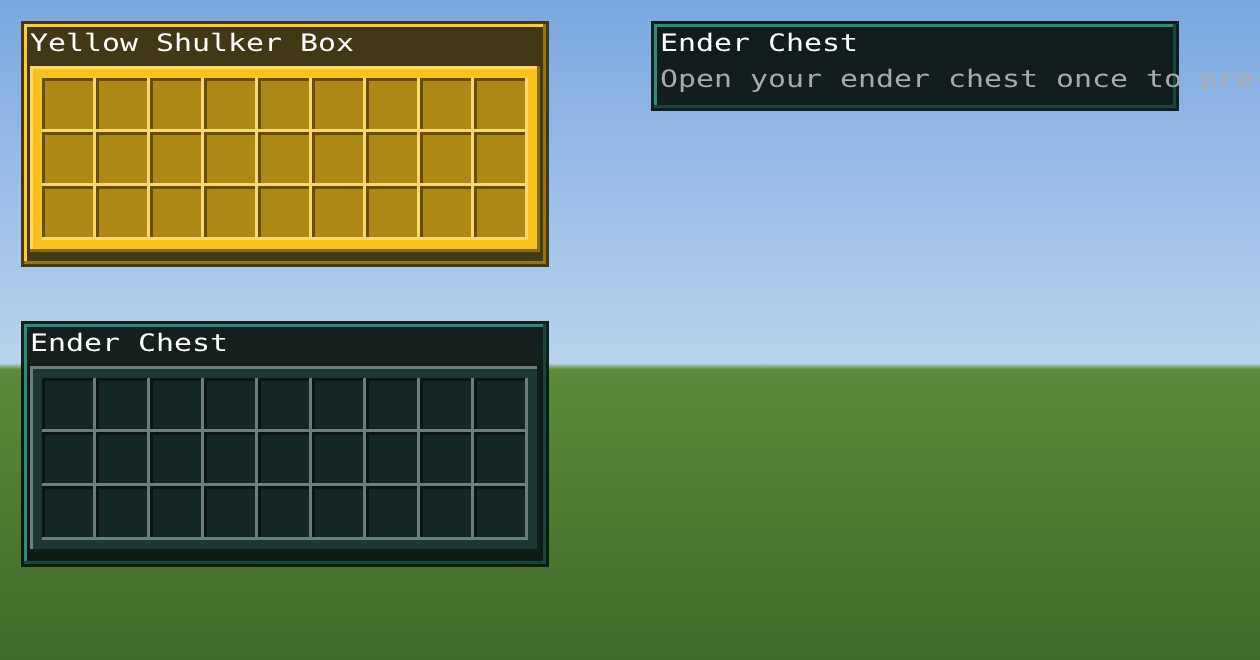
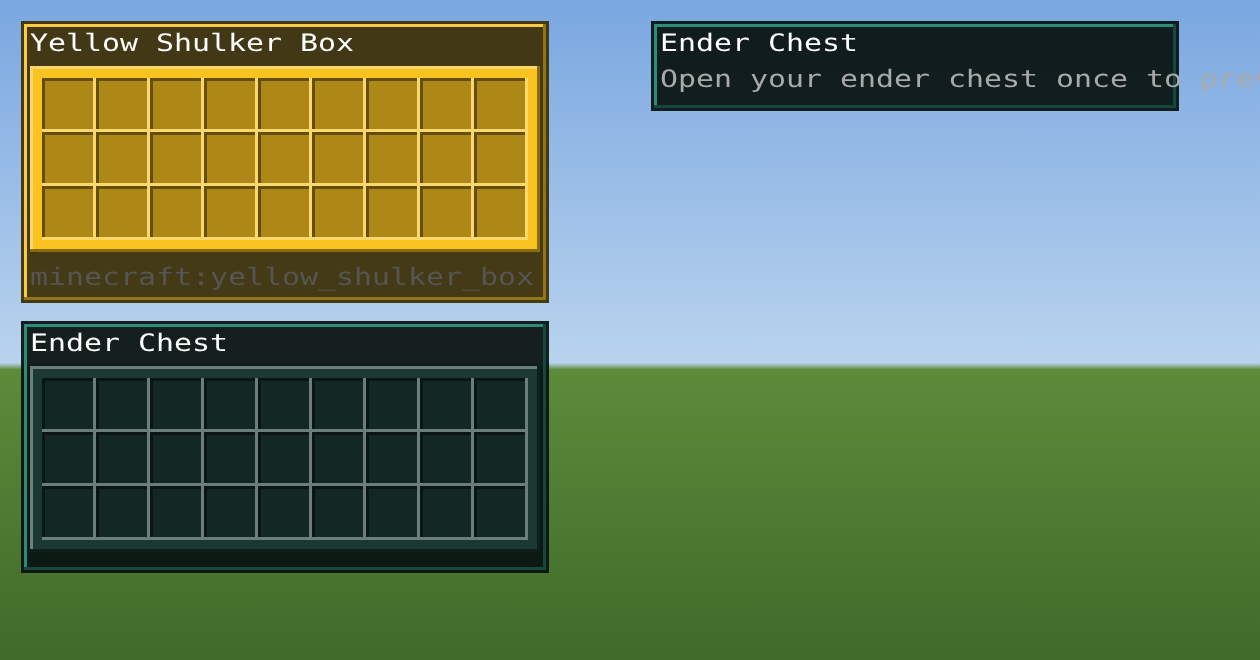
Previews: the grid 2px higher, with a gap before the next tooltip line
Claude-Session: https://claude.ai/code/session_01JRizzzJvajimLsiwaVaxti

Changed region(s): [[0.0, 0.3939, 0.4333, 0.4848], [0.0, 0.8485, 0.4333, 0.8788]]

diff --git a/src/lib.rs b/src/lib.rs
@@ -773,7 +773,7 @@ impl ItemPart for ShulkerTooltip {
         }
         previews::contents(host, event.stack)?;
         let [w, h] = previews::grid_size();
-        Some([w, h + 2.0])
+        Some([w, h + previews::GRID_GAP])
     }
 
     fn tooltip_component_draw(
@@ -790,7 +790,7 @@ impl ItemPart for ShulkerTooltip {
                 .flatten()
                 .unwrap_or(previews::SHULKER_PURPLE)
         });
-        let at = [event.origin[0], event.origin[1] + 2.0];
+        let at = [event.origin[0], event.origin[1]];
         previews::draw_grid(&mut *event.draw, at, &items, tint);
     }
 }
@@ -812,7 +812,7 @@ impl ItemPart for EnderTooltip {
         }
         if seen {
             let [w, h] = previews::grid_size();
-            Some([w, h + 2.0])
+            Some([w, h + previews::GRID_GAP])
         } else {
             let w = host
                 .text_width(&Text::literal(previews::ENDER_UNSEEN))
@@ -827,7 +827,7 @@ impl ItemPart for EnderTooltip {
         event: &mut TooltipComponentDrawEvent<'_>,
     ) {
         let items = previews::with(|s| s.ender_items.clone());
-        let at = [event.origin[0], event.origin[1] + 2.0];
+        let at = [event.origin[0], event.origin[1]];
         match items {
             Some(items) => {
                 let tint = previews::with(|s| s.ender_tint).then_some(previews::ENDER_GREEN);

diff --git a/src/ui/tests.rs b/src/ui/tests.rs
@@ -861,9 +861,23 @@ fn container_preview_grids() {
         .unwrap();
     let shulker = crate::previews::tooltip_colours(yellow);
     let ender = crate::previews::ender_tooltip_colours();
-    tooltip(&mut r, [10.0, 10.0], "Yellow Shulker Box", h + 2.0, shulker);
+    // The name, the game's 2-pixel gap, the grid and its gap, then the F3+H line after it.
+    let gap = crate::previews::GRID_GAP;
+    tooltip(
+        &mut r,
+        [10.0, 10.0],
+        "Yellow Shulker Box",
+        h + gap + 10.0,
+        shulker,
+    );
     crate::previews::draw_grid(&mut r, [10.0, 22.0], &empty, Some(yellow));
-    tooltip(&mut r, [10.0, 110.0], "Ender Chest", h + 2.0, ender);
+    r.text(
+        "minecraft:yellow_shulker_box",
+        [10.0, 22.0 + h + gap],
+        0xFF555555,
+        true,
+    );
+    tooltip(&mut r, [10.0, 110.0], "Ender Chest", h + gap, ender);
     crate::previews::draw_grid(
         &mut r,
         [10.0, 122.0],

diff --git a/src/previews.rs b/src/previews.rs
@@ -155,6 +155,10 @@ pub const SHULKER_PURPLE: u32 = 0xFF8E6491;
 pub const ENDER_GREEN: u32 = 0xFF1B3833;
 pub const ENDER_EYE: u32 = 0xFF2E8B78;
 
+/// The space a grid leaves under it in its tooltip, before the next line (the game puts the
+/// next line right where an image's space ends, and leaves its own gap above it).
+pub const GRID_GAP: f32 = 4.0;
+
 /// The size of a 27-slot grid in GUI pixels.
 pub fn grid_size() -> [f32; 2] {
     [
